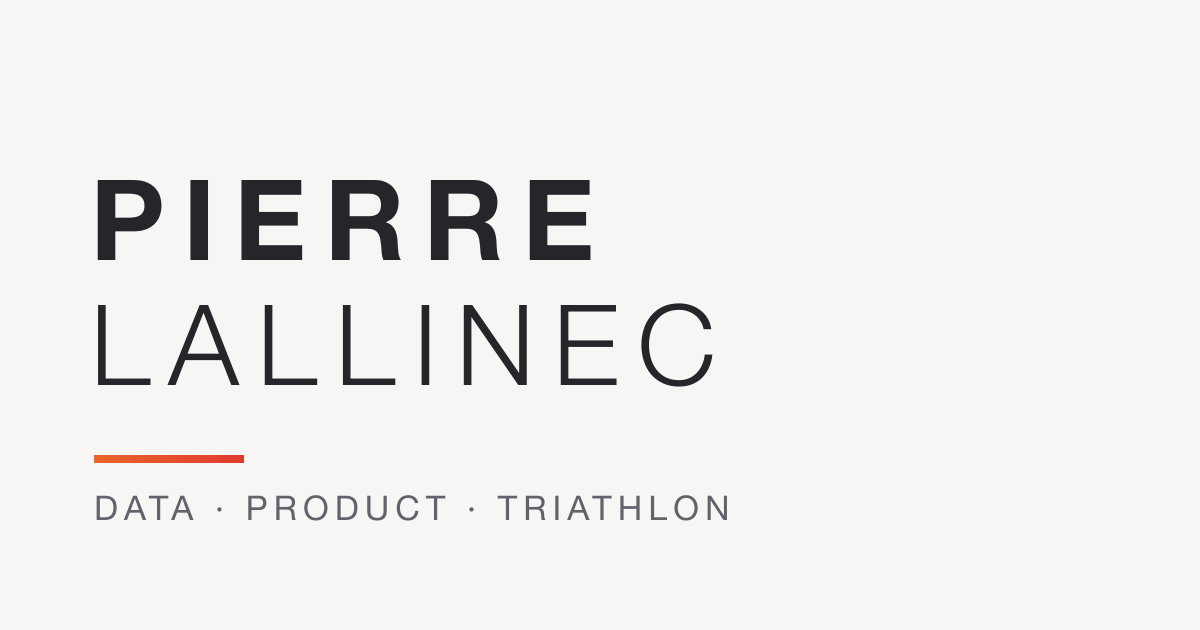
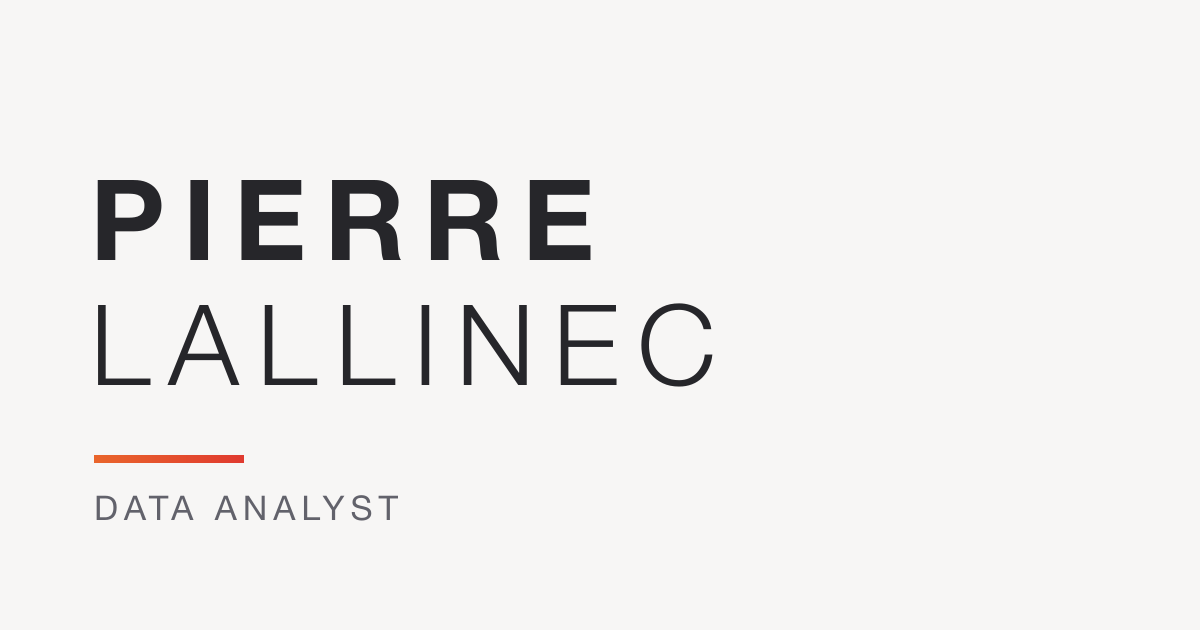
Titre et image de partage : Data Analyst ; icône pour téléphone

Changed region(s): [[0.185, 0.7841, 0.37, 0.8444], [0.4008, 0.7841, 0.6167, 0.8444]]

diff --git a/tests/site/seo.test.ts b/tests/site/seo.test.ts
@@ -87,3 +87,14 @@ it.each(PAGES)('le nom accessible du choix de langue de $path contient son texte
   if (label) expect(label).toContain(link.text.trim());
   expect(link.getAttribute('title')).toBeTruthy();
 });
+
+it.each([['/'], ['/fr/']])('l’accueil %s se présente par le métier, sans mention du sport', (path) => {
+  const doc = loadPage(path);
+  expect(doc.querySelector('title')?.text).toBe('Pierre Lallinec · Data Analyst');
+  expect(doc.querySelector('meta[name=description]')?.getAttribute('content')).not.toMatch(/triathlon|sport|race|course/i);
+});
+
+it.each(PAGES)('$path déclare une icône pour l’écran d’accueil des téléphones', ({ path }) => {
+  expect(loadPage(path).querySelector('link[rel=apple-touch-icon]')?.getAttribute('href')).toBe('/apple-touch-icon.png');
+  expect(readDist('/apple-touch-icon.png').length).toBeGreaterThan(500);
+});

diff --git a/src/i18n/fr.ts b/src/i18n/fr.ts
@@ -7,9 +7,9 @@ export const fr = {
   switchTo: 'EN',
   switchLabel: 'Read this page in English',
   home: {
-    title: 'Pierre Lallinec · Data, produit et triathlon',
+    title: 'Pierre Lallinec · Data Analyst',
     description:
-      'Site personnel de Pierre Lallinec : data analyst, parcours professionnel et résultats sportifs en triathlon, course à pied et vélo.',
+      "Pierre Lallinec, data analyst au tempérament de builder, formé à la finance : parcours, réalisations et outils.",
     intro:
       "Data analyst avec un tempérament de builder et une formation en finance. Depuis bientôt dix ans, je transforme des problèmes métier en modèles de données, en analyses et en outils utilisés au quotidien. En dehors du travail : ma famille, et un peu (trop ?) de sport.",
     careerLink: 'Mon parcours professionnel',

diff --git a/src/i18n/en.ts b/src/i18n/en.ts
@@ -9,9 +9,9 @@ export const en: Dict = {
   switchTo: 'FR',
   switchLabel: 'Lire cette page en français',
   home: {
-    title: 'Pierre Lallinec · Data, product and triathlon',
+    title: 'Pierre Lallinec · Data Analyst',
     description:
-      'Personal site of Pierre Lallinec: data analyst, career history and race results in triathlon, running and cycling.',
+      "Pierre Lallinec, data analyst with a builder's mindset and a background in finance: career, projects and tools.",
     intro:
       "Data analyst with a builder's mindset and a background in finance. For almost ten years I've been turning business problems into data models, analyses and tools that teams use every day. Outside work: my family, and a little (too much?) sport.",
     careerLink: 'My career',
